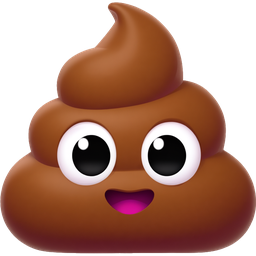
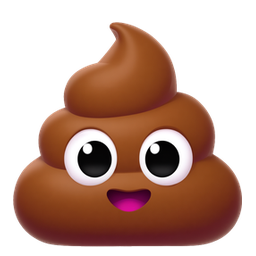
새 똥 그림 여백을 예전과 같게 맞춰 크기 정상화, 보간 품질 상향으로 가장자리 떨림 완화 (v1.3.96)
내용이 캔버스에 꽉 차 있어 같은 그리기 크기에서도 12% 커 보이고 가장자리가 잘려
자글거렸다. 가로 89%/세로 88% 여백으로 재배치하고 눈·입 좌표를 다시 실측.

Changed region(s): [[0.0, 0.0, 1.0, 1.0], [0.5, 0.75, 0.5312, 0.7812]]

diff --git a/index.html b/index.html
@@ -747,6 +747,9 @@
   let items = [], particles = [], floats = [], clouds = [];
   const cv = document.getElementById("cv");
   const ctx = cv.getContext("2d");
+  // 그림을 줄여 그릴 때 가장자리가 자글거리지 않도록 보간 품질을 올린다
+  ctx.imageSmoothingEnabled = true;
+  ctx.imageSmoothingQuality = "high";
   const stage = document.getElementById("stage");
 
   const startScreen = document.getElementById("startScreen");
@@ -754,7 +757,7 @@
   const elFinal = document.getElementById("finalScore");
   const elTitle = document.getElementById("overTitle");
 
-  const GAME_VERSION = "v1.3.95";   // 코드를 고칠 때마다 뒤 두 자리를 올린다
+  const GAME_VERSION = "v1.3.96";   // 코드를 고칠 때마다 뒤 두 자리를 올린다
   document.getElementById("ver").textContent = GAME_VERSION;
 
   const LS_NAME = "epjpddongpi_name";
@@ -4529,10 +4532,10 @@
   /* 눈·입 변형 — 그림의 흰자가 순백이라 눈동자를 흰색으로 덮고 다시 그리면 이음매가 없다.
      (좌표는 assets/item_poop.png 를 픽셀 단위로 재어 넣은 값)
      입은 자홍색 영역 안에 이빨·혀를 얹기만 하므로 지울 필요가 없다. (모두 실측 좌표) */
-  const SCL_R = 0.137;                  // 흰자 반지름 / 그림 크기 (새 그림 실측)
-  const PUP_R = 0.089;                  // 원래 눈동자 반지름
+  const SCL_R = 0.122;                  // 흰자 반지름 / 그림 크기 (새 그림 실측)
+  const PUP_R = 0.078;                  // 원래 눈동자 반지름
   const PUP_C = "#141414";              // 원래 눈동자 색
-  const MOU_TOP = 0.332, MOU_BOT = 0.396, MOU_HW = 0.067;   // 입 범위
+  const MOU_TOP = 0.327, MOU_BOT = 0.383, MOU_HW = 0.060;   // 입 범위
 
   function eyeBase(S) {                 // 흰자만 남기고 눈동자를 지운다
     ctx.fillStyle = "#fff";
@@ -4613,7 +4616,7 @@
 
   /* 똥 꾸밈. 3D 그림의 눈은 가운데보다 조금 아래(y +0.124S), 좌우 ±0.221S 에 있고
      눈 반지름은 0.13S 쯤 된다 — 아래 좌표는 전부 그 실측값에 맞춰 두었다. */
-  const EYE_X = 0.207, EYE_Y = 0.108, EYE_R = 0.130;
+  const EYE_X = 0.185, EYE_Y = 0.126, EYE_R = 0.116;
   function drawPoopFace(kind, S) {
     ctx.save();
     ctx.lineCap = "round";
